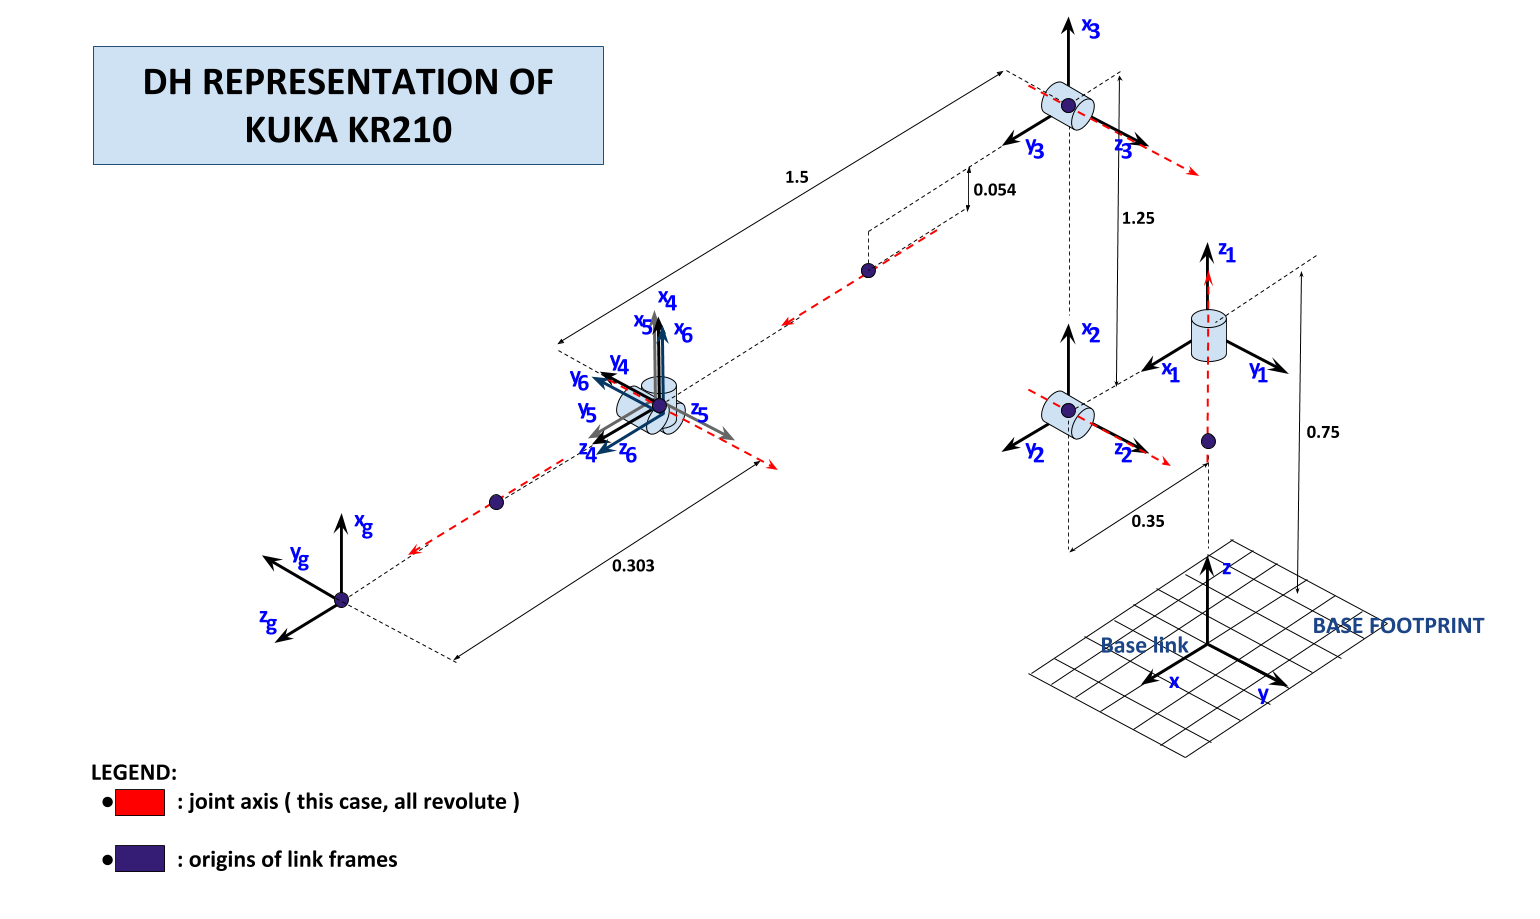
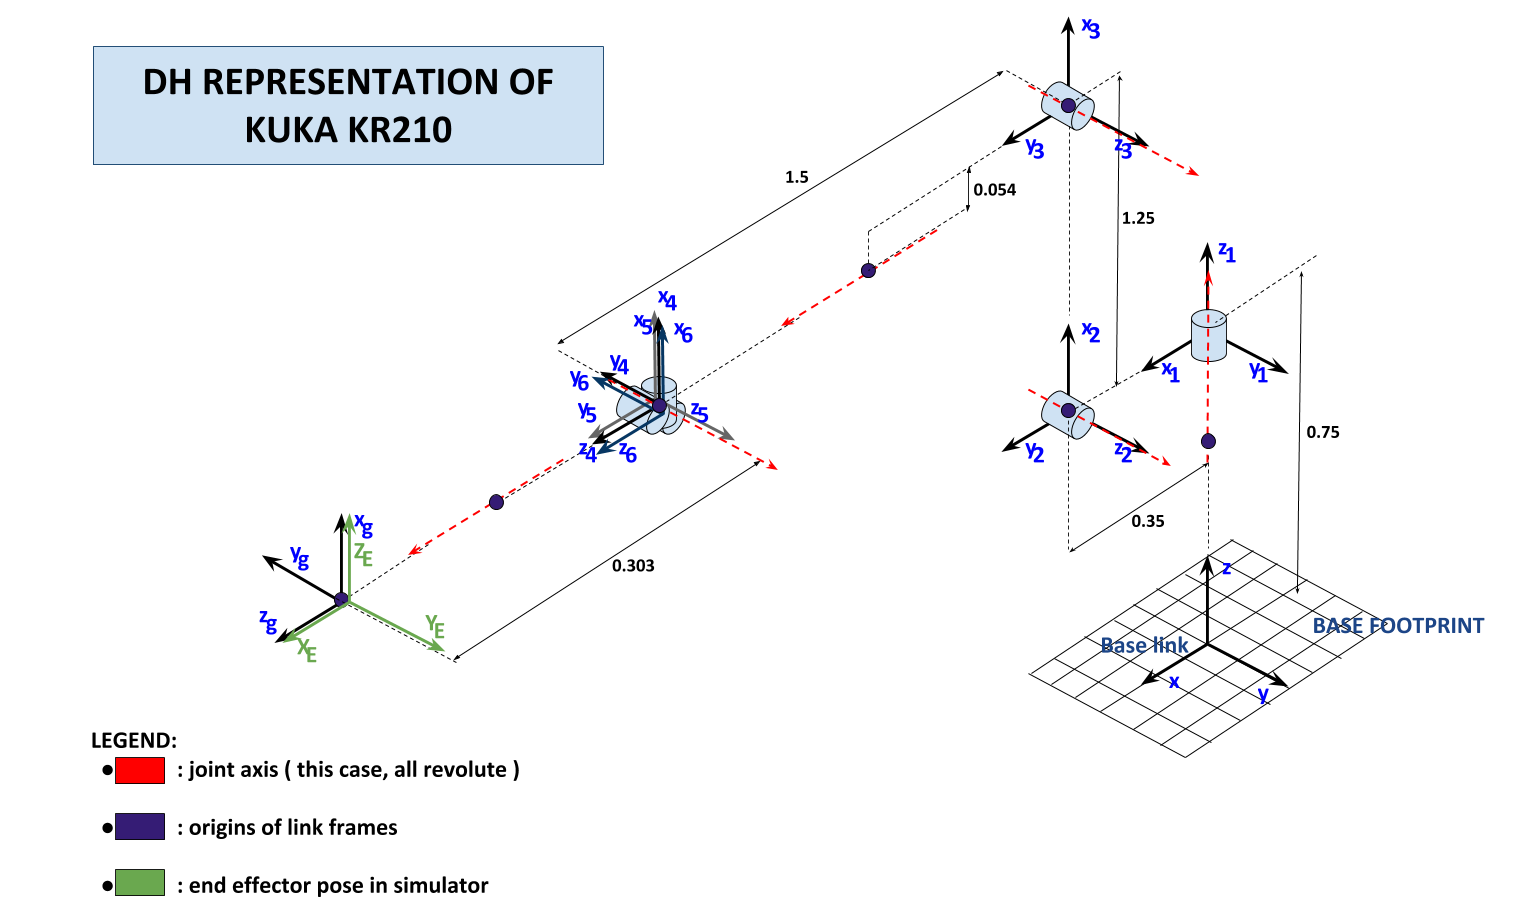
Updated report

diff --git a/REPORT.md b/REPORT.md
@@ -29,6 +29,9 @@
 [img_total_transform_4]: _imgs/img_total_transform_4.png
 [img_total_transform_5]: _imgs/img_total_transform_5.png
 
+[img_tf_eef_compensation]: _imgs/img_tf_eef_compensation.png
+[img_tf_eef_base]: _imgs/img_tf_eef_base.png
+
 [img_tf_3_0]: _imgs/img_tf_3_0.png
 [img_tf_6_3]: _imgs/img_tf_6_3.png
 
@@ -114,6 +117,8 @@ Links | alpha(i-1) | a(i-1) | d(i-1) | theta(i)
 5->6  |   -pi/2    |   0    | 0      | q6
 6->EE |     0      |   0    | 0.303  | 0
 
+We haven't include the orientation compensation of the gripper frame because we will deal with it separately.
+
 ### **2. Derivation of joint-joint transforms and total End Effector transform**
 
 Recall the DH transformation matrix from frame *i-1* to frame *i*.
@@ -146,7 +151,13 @@ Combining these we get the total transform from frame 6 respect to frame 0 :
 
 ![DH total transform 5][img_total_transform_5]
 
-This transformation is the total transform up to the last DH frame, so we have to take into account the gripper offset respect to this last frame. 
+To go from this last frame to the gripper frame we have to compensate with the following transformation matrix :
+
+![DH eef compensation][img_tf_eef_compensation]
+
+By compensating the last frame we get the following transformation for the gripper frame respect to the base frame :
+
+![img_tf_eef_base][img_tf_eef_base]
 
 #### 3. Decouple Inverse Kinematics problem into Inverse Position Kinematics and inverse Orientation Kinematics; doing so derive the equations to calculate all individual joint angles.
 
